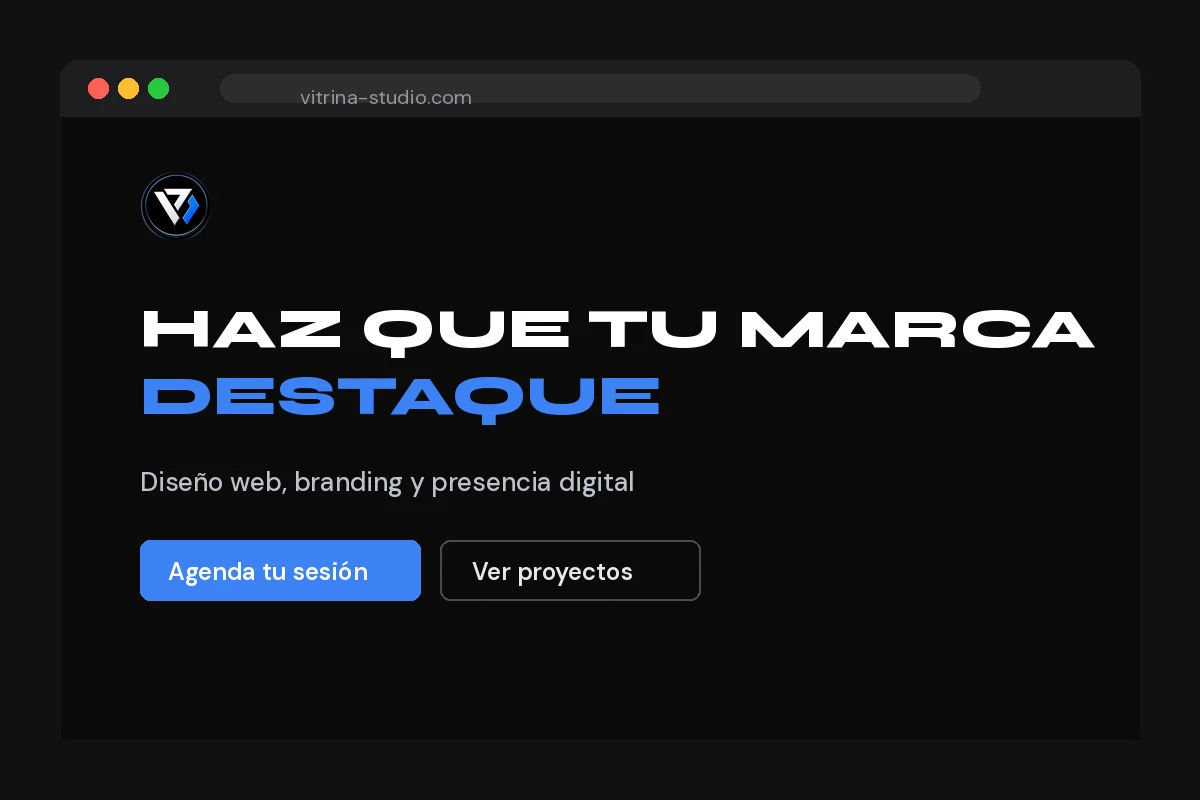
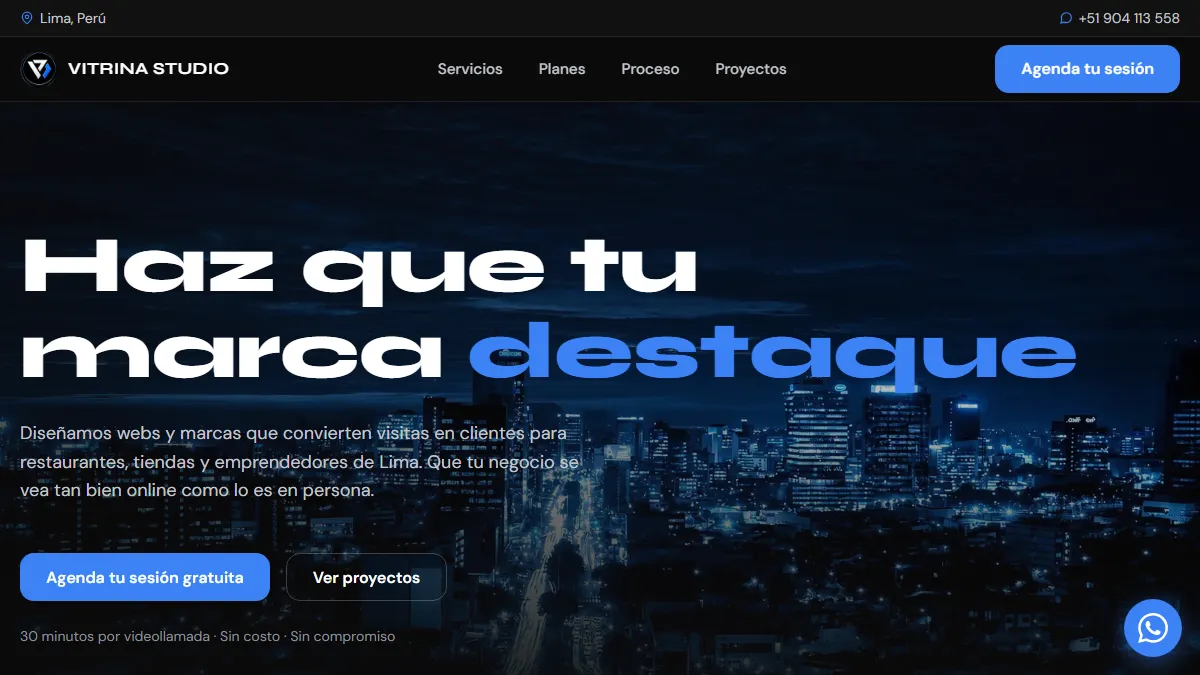
Portafolio: agrega Elizabeth Nail Artist + actualiza mockup de Vitrina; copy
- Carrusel: nuevo slide de Elizabeth Nail Artist (Web + Branding)
- Reemplaza proyecto-vitrina.webp por captura limpia del hero actual
  (el anterior tenia doble marco de navegador y logo roto)
- Copy: ofrecimiento PDF -> "Hoja de Ruta Digital" (sin mencionar PDF)
- Copy: paso 01 "mini-plan" -> "hoja de ruta"
- Copy: Tienda Virtual ahora aclara seguridad avanzada y anti-hackeos
- Copy: paso 04 Desarrollo refuerza el beneficio (sin caidas)

diff --git a/index.html b/index.html
@@ -703,7 +703,28 @@
           </div>
         </a>
 
-        <!-- SLIDE 4: Placeholder -->
+        <!-- SLIDE 4: Elizabeth Nail Artist -->
+        <a class="slide" href="https://elizabeth-nail-artist.pages.dev/" target="_blank" rel="noopener" aria-label="Ver proyecto Elizabeth Nail Artist">
+          <div class="slide-browser">
+            <div class="browser-dots"><span></span><span></span><span></span></div>
+            <div class="browser-url">elizabeth-nail-artist.pages.dev</div>
+          </div>
+          <div class="slide-img-wrap">
+            <img src="/assets/proyecto-elizabeth.webp" alt="Web de Elizabeth Nail Artist: manicura premium a domicilio con agenda por WhatsApp" width="1200" height="675" loading="lazy">
+            <span class="slide-badge">Web + Branding</span>
+          </div>
+          <div class="slide-info">
+            <div>
+              <h3>Elizabeth Nail Artist</h3>
+              <span class="caption">Manicura a domicilio · Web + identidad de marca</span>
+            </div>
+            <div class="slide-arrow" aria-hidden="true">
+              <svg width="16" height="16" viewBox="0 0 24 24" fill="none" stroke="currentColor" stroke-width="2" stroke-linecap="round" stroke-linejoin="round"><line x1="7" y1="17" x2="17" y2="7"/><polyline points="7 7 17 7 17 17"/></svg>
+            </div>
+          </div>
+        </a>
+
+        <!-- SLIDE 5: Placeholder -->
         <a class="slide slide-placeholder" href="#sesion" aria-label="Agendar sesión para tu proyecto">
           <div class="slide-browser">
             <div class="browser-dots"><span></span><span></span><span></span></div>
@@ -846,7 +867,7 @@
           <h3>Tienda Virtual</h3>
           <p class="ideal">Ideal para: negocios que venden productos online.</p>
           <ul>
-            <li><svg width="16" height="16" viewBox="0 0 24 24" fill="none" stroke="currentColor" stroke-width="2.5" stroke-linecap="round" stroke-linejoin="round" aria-hidden="true"><polyline points="20 6 9 17 4 12"/></svg><span>Tienda en Shopify o WooCommerce</span></li>
+            <li><svg width="16" height="16" viewBox="0 0 24 24" fill="none" stroke="currentColor" stroke-width="2.5" stroke-linecap="round" stroke-linejoin="round" aria-hidden="true"><polyline points="20 6 9 17 4 12"/></svg><span>Tienda en Shopify o WooCommerce (con configuración de seguridad avanzada y optimización anti-hackeos)</span></li>
             <li><svg width="16" height="16" viewBox="0 0 24 24" fill="none" stroke="currentColor" stroke-width="2.5" stroke-linecap="round" stroke-linejoin="round" aria-hidden="true"><polyline points="20 6 9 17 4 12"/></svg><span>Catálogo de productos cargado y organizado</span></li>
             <li><svg width="16" height="16" viewBox="0 0 24 24" fill="none" stroke="currentColor" stroke-width="2.5" stroke-linecap="round" stroke-linejoin="round" aria-hidden="true"><polyline points="20 6 9 17 4 12"/></svg><span>Pagos online configurados</span></li>
             <li><svg width="16" height="16" viewBox="0 0 24 24" fill="none" stroke="currentColor" stroke-width="2.5" stroke-linecap="round" stroke-linejoin="round" aria-hidden="true"><polyline points="20 6 9 17 4 12"/></svg><span>Capacitación para que la manejes tú</span></li>
@@ -865,10 +886,10 @@
       <span class="eyebrow">Proceso</span>
       <h2 class="reveal">Así trabajamos, paso a paso</h2>
       <div class="grid-proceso">
-        <div class="paso reveal"><h3>Descubrimiento</h3><p>Conversamos sobre tu negocio, tus clientes y qué quieres lograr. Aquí nace el mini-plan.</p></div>
+        <div class="paso reveal"><h3>Descubrimiento</h3><p>Conversamos sobre tu negocio, tus clientes y qué quieres lograr. Aquí nace tu hoja de ruta.</p></div>
         <div class="paso reveal"><h3>Propuesta</h3><p>Te presentamos alcance, plan recomendado y cotización clara. Apruebas antes de empezar.</p></div>
         <div class="paso reveal"><h3>Diseño</h3><p>Creamos la identidad visual y el diseño de tu web. Lo revisas y opinas en cada avance.</p></div>
-        <div class="paso reveal"><h3>Desarrollo</h3><p>Construimos tu sitio con código limpio, rápido y seguro. Nada de plantillas vulnerables.</p></div>
+        <div class="paso reveal"><h3>Desarrollo</h3><p>Construimos tu sitio con código limpio, rápido y seguro. Nada de plantillas vulnerables: tu web volará y nunca perderás una venta por caídas del sistema.</p></div>
         <div class="paso reveal"><h3>Ajustes</h3><p>Aplicamos tus rondas de cambios hasta que todo quede como lo imaginaste.</p></div>
         <div class="paso reveal"><h3>Lanzamiento</h3><p>Publicamos tu web en tu dominio, conectada a Google y lista para recibir clientes.</p></div>
       </div>
@@ -939,7 +960,7 @@
             </li>
             <li>
               <svg width="18" height="18" viewBox="0 0 24 24" fill="none" stroke="currentColor" stroke-width="2" stroke-linecap="round" stroke-linejoin="round" aria-hidden="true"><polyline points="20 6 9 17 4 12"/></svg>
-              <span>Sales con un <strong style="color:var(--blanco)">mini-plan digital personalizado en PDF</strong>, tuyo te quedes o no</span>
+              <span>Sales con una <strong style="color:var(--blanco)">Hoja de Ruta Digital</strong> personalizada para tu negocio, tuya te quedes o no</span>
             </li>
             <li>
               <svg width="18" height="18" viewBox="0 0 24 24" fill="none" stroke="currentColor" stroke-width="2" stroke-linecap="round" stroke-linejoin="round" aria-hidden="true"><polyline points="20 6 9 17 4 12"/></svg>
